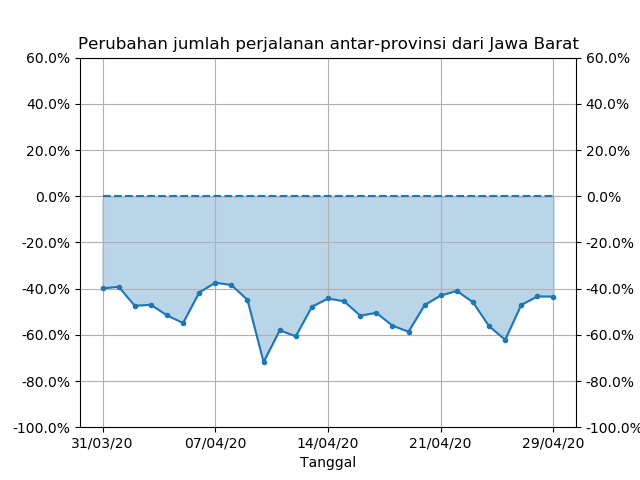
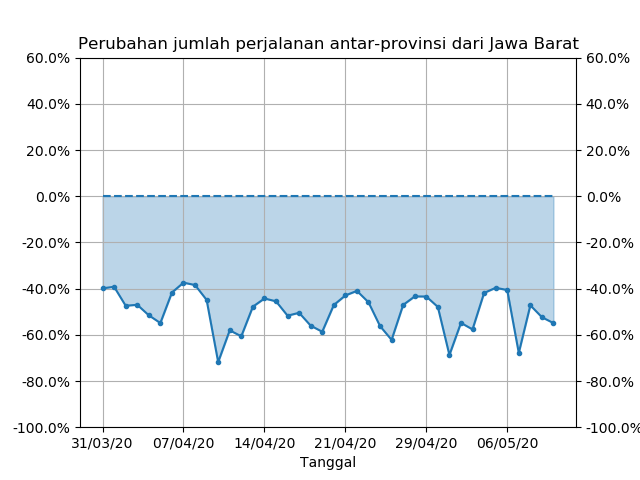
Update mobility

Changed region(s): [[0.1562, 0.5625, 0.875, 0.7812], [0.2188, 0.9062, 0.5938, 0.9375], [0.625, 0.9062, 0.9062, 0.9375]]

diff --git a/idcovid19-mobility.md b/idcovid19-mobility.md
@@ -6,34 +6,34 @@ permalink: /idcovid19-mobility/
 ---
 
 Sumber data: [Facebook GeoInsight](https://www.facebook.com/geoinsights-portal/) dan [Indonesia GeoJSON](https://github.com/superpikar/indonesia-geojson) <br/>
-Diperbarui pada: 01/05/2020<br/>
+Diperbarui pada: 11/05/2020<br/>
 
 #### DKI Jakarta
 
-Rata-rata 10 hari terakhir: \\(\left(-49.5\pm 6.6\right)\%\\)
+Rata-rata 10 hari terakhir: \\(\left(-53.7\pm 9.7\right)\%\\)
 
 <img title="DKI Jakarta" src="{{ site.baseurl }}/assets/idcovid19-mobility/antar-provinsi_dari_dki_jakarta.png" width="50%"/>
 
 #### Jawa Barat
 
-Rata-rata 10 hari terakhir: \\(\left(-48.8\pm 7.1\right)\%\\)
+Rata-rata 10 hari terakhir: \\(\left(-52.6\pm 9.9\right)\%\\)
 
 <img title="Jawa Barat" src="{{ site.baseurl }}/assets/idcovid19-mobility/antar-provinsi_dari_jawa_barat.png" width="50%"/>
 
 #### Jawa Timur
 
-Rata-rata 10 hari terakhir: \\(\left(-13.8\pm 12.9\right)\%\\)
+Rata-rata 10 hari terakhir: \\(\left(-22.5\pm 5.3\right)\%\\)
 
 <img title="Jawa Timur" src="{{ site.baseurl }}/assets/idcovid19-mobility/antar-provinsi_dari_jawa_timur.png" width="50%"/>
 
 #### Sulawesi Selatan
 
-Rata-rata 10 hari terakhir: \\(\left(-42.7\pm 7.9\right)\%\\)
+Rata-rata 10 hari terakhir: \\(\left(-42.2\pm 7.3\right)\%\\)
 
 <img title="Sulawesi Selatan" src="{{ site.baseurl }}/assets/idcovid19-mobility/antar-provinsi_dari_sulawesi_selatan.png" width="50%"/>
 
 #### Jawa Tengah
 
-Rata-rata 10 hari terakhir: \\(\left(-29.3\pm 9.9\right)\%\\)
+Rata-rata 10 hari terakhir: \\(\left(-34.6\pm 7.7\right)\%\\)
 
 <img title="Jawa Tengah" src="{{ site.baseurl }}/assets/idcovid19-mobility/antar-provinsi_dari_jawa_tengah.png" width="50%"/>
